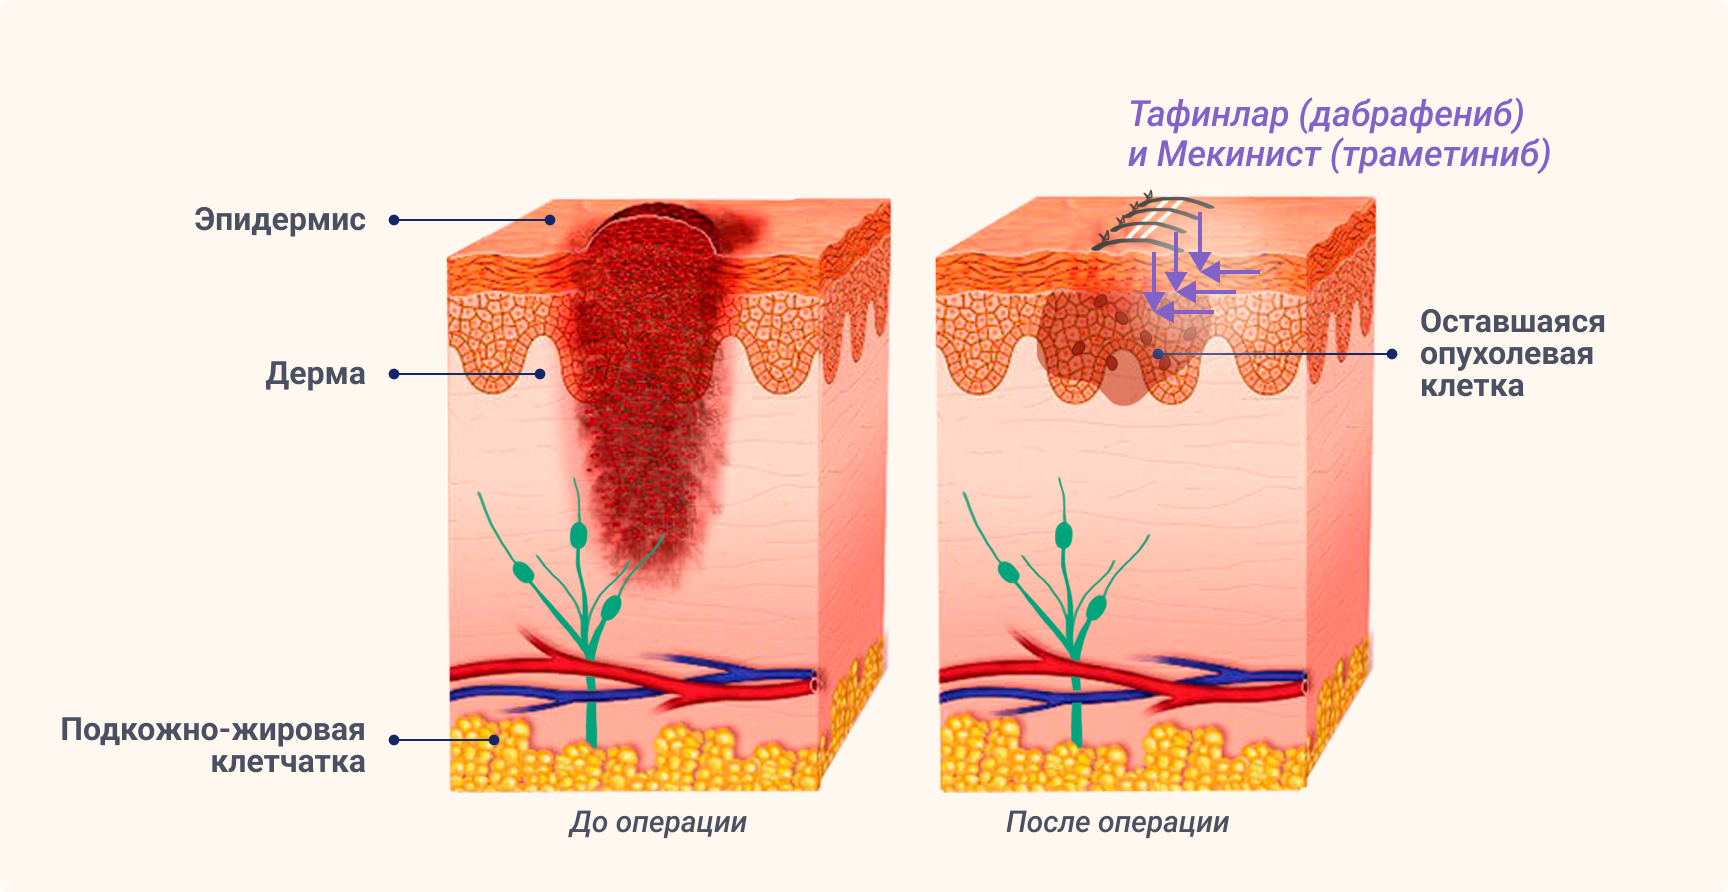
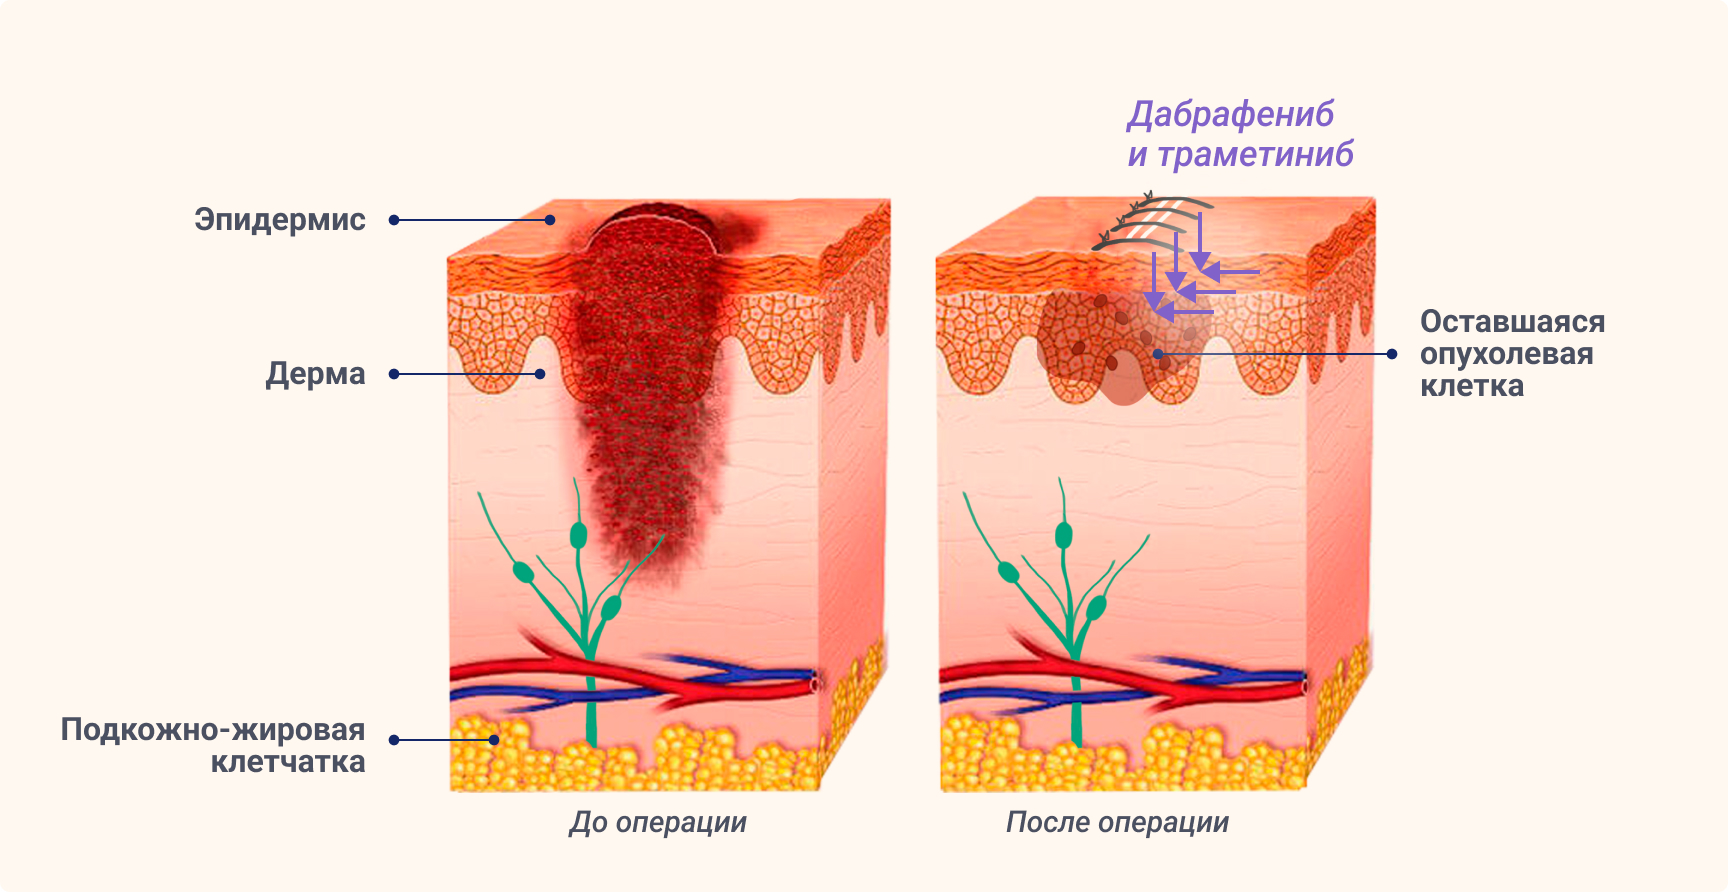
fix: изменил текст и изображение на сайте

Changed region(s): [[0.6562, 0.0908, 0.9062, 0.2119]]

diff --git a/src/why.html b/src/why.html
@@ -15,15 +15,13 @@
         <section class="content__why-about why-about">
           <div class="why-about__container">
             <h2 class="why-about__title title-h2">
-              Почему Вам назначили Тафинлар (дабрафениб)
-              и Мекинист (траметиниб)
+              Почему Вам назначили терапию препаратами дабрафениб и траметиниб
             </h2>
             <div class="why-about__banner-image page-banner-img">
               <img src="@img/why/bg_01.jpg" alt="Лекарственные препараты на полке в аптеке">
             </div>
             <p class="why-about__article article-p">
-              Препараты Тафинлар (дабрафениб) и Мекинист (траметиниб) предназначены для лечения меланомы кожи с мутацией
-              BRAF V600:
+              Препараты дабрафениб и траметиниб предназначены для лечения меланомы кожи с мутацией BRAF V600:
             </p>
             <div class="why-about__box numeric-box">
               <div class="numeric-box__number-label">
@@ -46,13 +44,12 @@
               </p>
             </div>
             <p class="why-about__article article-p">
-              Обязательным условием для назначения терапии препаратами Тафинлар (дабрафениб) и Мекинист (траметиниб)
-              является наличие мутации BRAF V600, так как они действуют именно на эту мутацию.
+              Обязательным условием для назначения терапии препаратами дабрафениб и траметиниб является наличие мутации
+              BRAF V600, так как они действуют именно на эту мутацию.
             </p>
             <div class="more">
               <h3 class="why-about__more-title title-h3">
-                Зачем назначаются препараты Тафинлар (дабрафениб) и Мекинист (траметиниб),
-                если меланома удалена во время операции?
+                Зачем назначаются препараты дабрафениб и траметиниб, если меланома удалена во время операции?
               </h3>
               <p class="why-about__article article-p">
                 Меланома, как и любое другое онкологическое заболевание, может рецидивировать — даже после ее
@@ -91,8 +88,8 @@
             </div>
             <div class="why-about__banner-text banner-text">
               <p class="banner-text__article">
-                Таким образом, лечение препаратами Тафинлар (дабрафениб) и Мекинист (траметиниб) <span
-                  class="_color">может помочь отсрочить или предупредить повторное развитие</span> меланомы
+                Таким образом, лечение препаратами дабрафениб
+                и траметиниб может помочь предотвращению <span class="_color">повторного развития </span> меланомы
               </p>
             </div>
             <div class="why-about__counter-indications counter-indications">
@@ -102,7 +99,7 @@
                     <img src="@img/icons/attention.svg" alt="Attention">
                   </div>
                   <h4 class="counter-indications__title">
-                    Противопоказания к препарату Тафинлар (дабрафениб)<sup>6</sup>:
+                    Противопоказания к препарату дабрафениб<sup>6</sup>:
                   </h4>
                 </div>
                 <ul class="counter-indications__list drug-list">
@@ -116,7 +113,8 @@
                     повышенная чувствительность к дабрафенибу или компонентам препарата;
                   </li>
                   <li class="drug-list__item">
-                    меланома или немелкоклеточный рак легкого с «диким типом» гена BRAF (в связи с отсутствием данных по эффективности и безопасности).
+                    меланома или немелкоклеточный рак легкого с «диким типом» гена BRAF (в связи с отсутствием данных по
+                    эффективности и безопасности).
                   </li>
                 </ul>
               </div>
@@ -126,7 +124,7 @@
                     <img src="@img/icons/attention.svg" alt="Attention">
                   </div>
                   <h4 class="counter-indications__title">
-                    Противопоказания к препарату Мекинист (траметиниб):
+                    Противопоказания к препарату траметиниб:
                   </h4>
                 </div>
                 <ul class="counter-indications__list drug-list">
